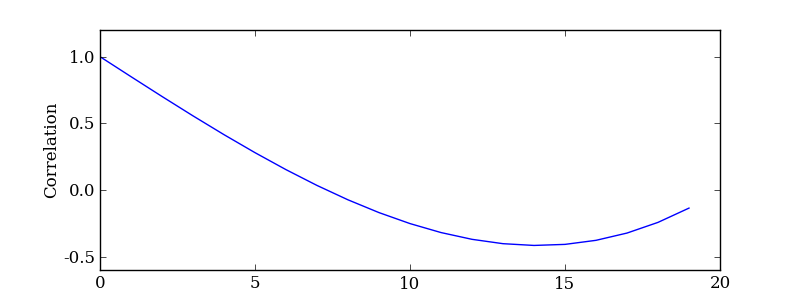
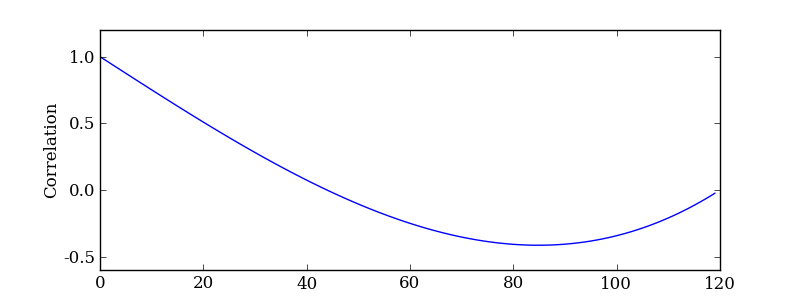
update

diff --git a/Math/correlation.py b/Math/correlation.py
@@ -5,7 +5,7 @@ import numpy as np
 #import matplotlib
 #zhfont1 = matplotlib.font_manager.FontProperties(fname='/home/lyh/.fonts/simsun.ttc')
 
-x = np.arange(20.0)
+x = np.arange(120.0)
 N = len(x)
 mu = 1.0/N*sum(x)
 

diff --git a/MachineLearning/Logistic回归.md b/MachineLearning/Logistic回归.md
@@ -1,0 +1,86 @@
+Title: Logistic回归
+Date: 2013-08-10 16:00
+Tags: Machine Learning, 分类
+
+[TOC]
+
+* * *
+
+## 基于Logistic回归和Sigmoid的分类
+
+Logistic回归分类器：
+
+$$z=w^Tx$$
+$$x=(x_0, x_1, ..., x_n) \qquad （待分类数据）$$
+$$w=(w_0, w_1, ..., w_n) \qquad （最佳回归系数）$$
+$$\sigma(z)=\frac{1}{1+e^{-z}} \qquad（Sigmoid 函数）$$
+
+*   当$\sigma(z)>0.5$时，数据被归为1类
+*   当$\sigma(z)<0.5$时，数据被归为0类
+
+## 基于最优化方法的最佳回归系数的确定
+
+函数$f(x,y)$的梯度表示为：
+$$\nabla{f(x,y)}=\binom{\frac{\partial{f(x,y)}}{\partial{x}}}{\frac{\partial{f(x,y)}}{\partial{y}}}$$
+
+梯度算法的迭代公式：
+$$w:=w+\alpha\nabla_wf(w)$$
+
+*   $\alpha$ 移动步长
+*   $\nabla_wf(w)$ 移动方向
+
+### 梯度上升算法
+
+```Python
+def gradAscent(dataMatIn, classLabels):
+    dataMatrix = mat(dataMatIn)             #convert to NumPy matrix
+    labelMat = mat(classLabels).transpose() #convert to NumPy matrix
+    m,n = shape(dataMatrix)
+    alpha = 0.001
+    maxCycles = 500
+    weights = ones((n,1))
+    for k in range(maxCycles):              #heavy on matrix operations
+        h = sigmoid(dataMatrix*weights)     #matrix mult
+        error = (labelMat - h)              #vector subtraction
+        weights = weights + alpha * dataMatrix.transpose()* error #matrix mult
+    return weights
+```
+*  特点：每次更新回归系数时都要遍历整个数据集，计算复杂度太高。
+
+### 随机梯度上升算法
+
+```Python
+def stocGradAscent0(dataMatrix, classLabels):
+    m,n = shape(dataMatrix)
+    alpha = 0.01
+    weights = ones(n)   #initialize to all ones
+    for i in range(m):
+        h = sigmoid(sum(dataMatrix[i]*weights))
+        error = classLabels[i] - h
+        weights = weights + alpha * error * dataMatrix[i]
+    return weights
+```
+* 特点：每次仅用一个样本点更新回归系数，是一个在线学习算法。
+
+### 改进的随机梯度上升算法
+
+```Python
+def stocGradAscent1(dataMatrix, classLabels, numIter=150):
+    m,n = shape(dataMatrix)
+    weights = ones(n)   #initialize to all ones
+    for j in range(numIter):
+        dataIndex = range(m)
+        for i in range(m):
+            alpha = 4/(1.0+j+i)+0.0001    #apha decreases with iteration, does not 
+            randIndex = int(random.uniform(0,len(dataIndex)))#go to 0 because of the constant
+            h = sigmoid(sum(dataMatrix[randIndex]*weights))
+            error = classLabels[randIndex] - h
+            weights = weights + alpha * error * dataMatrix[randIndex]
+            del(dataIndex[randIndex])
+    return weights
+```
+* 特点：
+    1.  $\alpha$在每次迭代的时候都会调整，这会缓解回归系数的高频波动；
+    2.  $\alpha$从一个较大的值逐步减小并趋于常数（非0），与固定的$\alpha$相比，加快了算法的收敛速度；
+    3.  通过随机选取样本来更新回归系数，将减少回归系数的周期性波动。
+

diff --git a/Math/数学公式.md b/Math/数学公式.md
@@ -8,6 +8,12 @@ Tags: Math
 
 ![aTeX Math Symbols](latex.gif)
 
+| | | | |
+-----------------| ------------- | ------------ | --------
+$\nabla$ \nabla |$\Delta$ \Delta | $\binom{a}{b}$ \binom{a}{b}  | $\partial$ \partial 
+| | | | |
+
+
 ## 自相关函数
 
 $$c(k) = \frac{\sum\limits_{i=1}^{N-k}(x_i-\mu)(x_{i+k}-\mu)}{\sum\limits_{i=1}^N(x_i-u)^2} \qquad其中\quad \mu=\frac{1}{N}\sum_{i=1}^{N}x_i$$
@@ -20,6 +26,4 @@ $$\sigma(z)=\frac{1}{1+e^{-z}}$$
 
 ![sigmoid.py](sigmoid.png "singmoid函数图")
 
-特性：
-
-*  很像阶跃函数
+*   特性：很像阶跃函数
